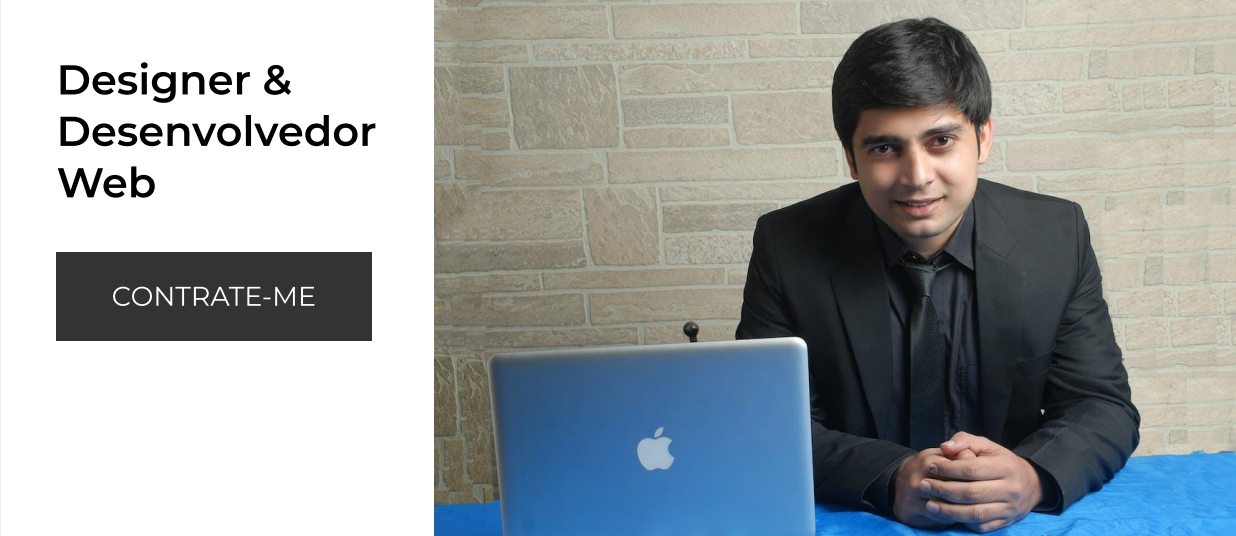
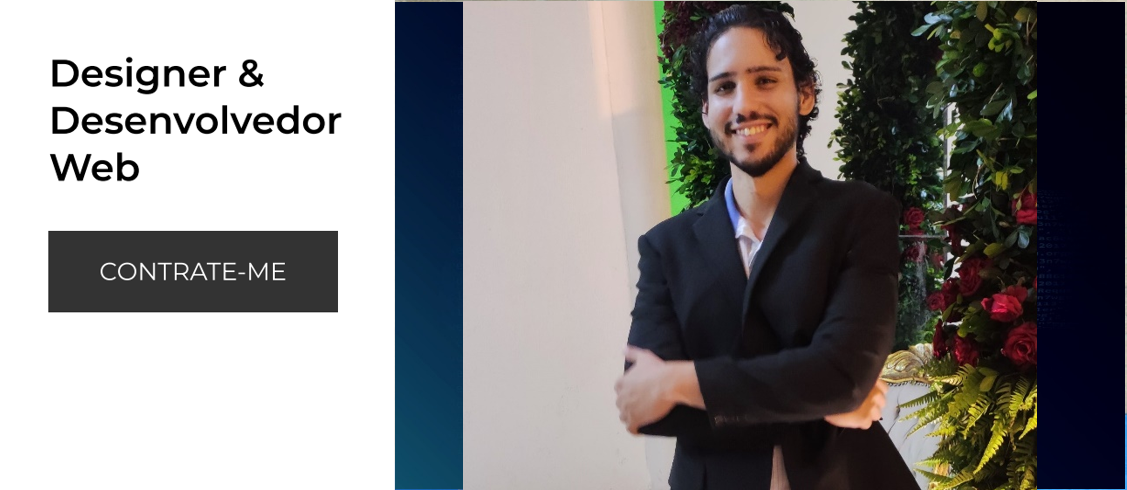
edições top

diff --git a/index.html b/index.html
@@ -21,17 +21,17 @@ width: 150px;
 height: 350px;
 margin: 10px;
 margin-left: 27px; right: 1185px; top: 0px;">
-<img style="width: 150px;
+<img style="width: 180px;
 height: 400px;
 margin: 10px;
-margin-left: 27px; margin: 0 auto;" src="lateral_ok.png" alt="">
+margin-left: 27px; margin: 0 auto;" src="lateral_ok2.png" alt="">
     </h2>
 
 <div class="cabecalho">
 
     
         <h1>portfólio de <br>
-        <b style="text-transform:uppercase; font-family: Montserrat, sans-serif;">Fulano de tal</b>
+        <b style="text-transform:uppercase; font-family: Montserrat, sans-serif;">André Victor Vasconcelos Santos</b>
         </h1>
 
         <div class="separa">
@@ -166,13 +166,19 @@ margin-left: 27px; margin: 0 auto;" src="lateral_ok.png" alt="">
 
 <div class="projeto1">
     <div class="foto1">
-    <img style="width: 333px;" src="imagens_semana3/img/projeto1.jpg" alt="">
-    
+    <a href="https://andre-victor-vasconcelos.github.io/site-android/">
+        <img style="width: 333px;" src="imagens_semana3/img/projeto_android.png" alt="">
+        
+    </a>
     </div>
     
     <div class="texto1">
-    <h2 style="height: 48px ; background-color: white;">Only dogs</h2>
-    <p> Lorem ipsum dolor sit amet consectetur adipisicing elit. Saepe consequatur vel suscipit sit. Saepe nam maxime pariatur ea magnam enim harum provident ullam ducimus, facilis adipisci placeat quaerat possimus sit. Lorem, ipsum dolor sit amet consectetur adipisicing elit. Ducimus consequuntur odio quisquam delectus deleniti ipsam alias accusantium consequatur labore dignissimos veniam quia quibusdam suscipit magni soluta, excepturi minima, eos est. Lorem ipsum dolor sit amet consectetur adipisicing elit. Quisquam perferendis nostrum recusandae dolor minima non adipisci eum esse ratione voluptatibus, aperiam illum saepe distinctio modi sapiente aspernatur pariatur placeat animi. Lorem ipsum dolor sit amet consectetur adipisicing elit. Ducimus quia repellendus quidem dolorem minus cupiditate qui voluptates perferendis, dolor ipsa odit voluptatem quaerat iusto aliquam illum tempore quod. Facilis, quia. Lorem ipsum dolor sit amet consectetur adipisicing elit. Sed minima, iure similique fugit placeat adipisci magnam cupiditate nesciunt nemo nulla, aspernatur expedita repellendus iste cum reiciendis, eligendi dolor animi quos.</p>
+    <h2 style="height: 48px ; background-color: white;">Como surgiu o mascote Android</h2>
+    <p> Provavelmente você sabe que o sistema operacional Android, mantido pelo Google é um dos mais utilizados para dispositivos móveis em todo o mundo. Mas tavez você não saiba que o seu simpático mascote tem um nome e uma história muito curiosa? Pois acompanhe esse artigo para aprender muita coisa sobre esse robozinho. A primeira tentativa de criar um mascote surgiu em 2007 e veio de um desenvolvedor chamado Dan Morrill. Ele conta que abriu o Inkscape (software livre para vetorização de imagens) e criou sua própria versão de robô. O objetivo era apenas personificar o sistema apenas para a a sua equipe, não existia nenhuma solicitação da empresa para a criação de um mascote.A ideia de ter um mascote foi amadurecendo e a missão foi passada para uma profissional da área. A ilustradora Russa Irina Blok, também funcionária do Google, ficou com a missão de representar o pequeno robô de uma maneira mais agradável.... <br> <br>
+
+     <a href="https://andre-victor-vasconcelos.github.io/site-android/"><b style="font-size: 1em;"> &#128433 LEIA MAIS </b></a>
+        
+    </p>
     
     </div>
 </div>
